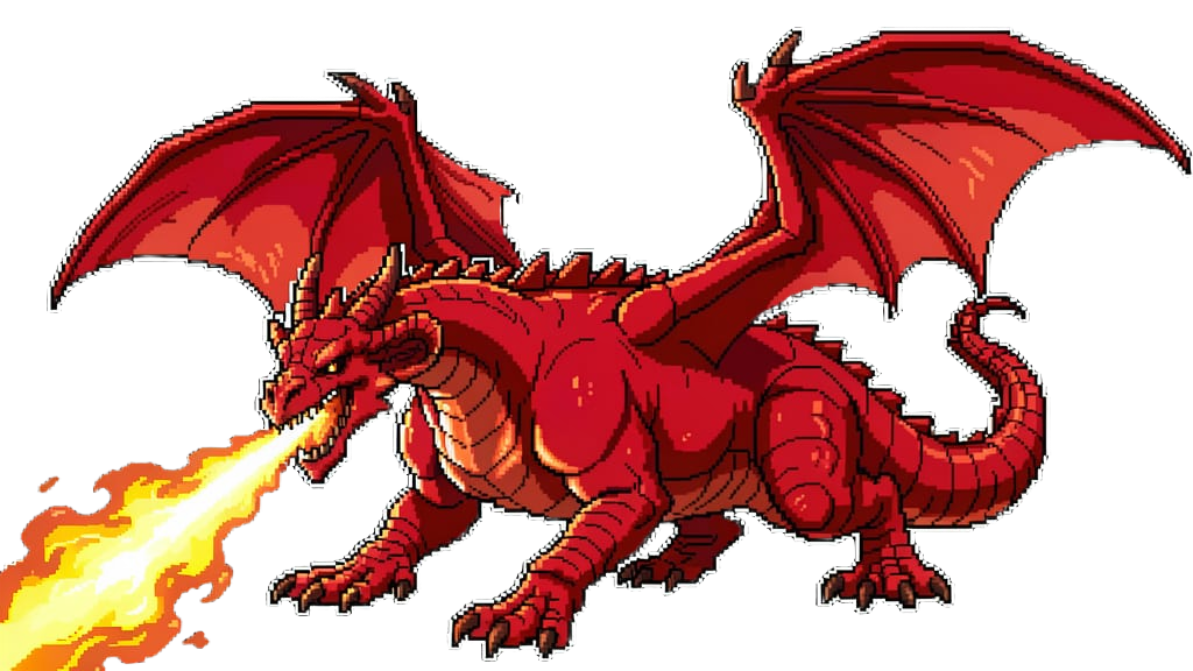
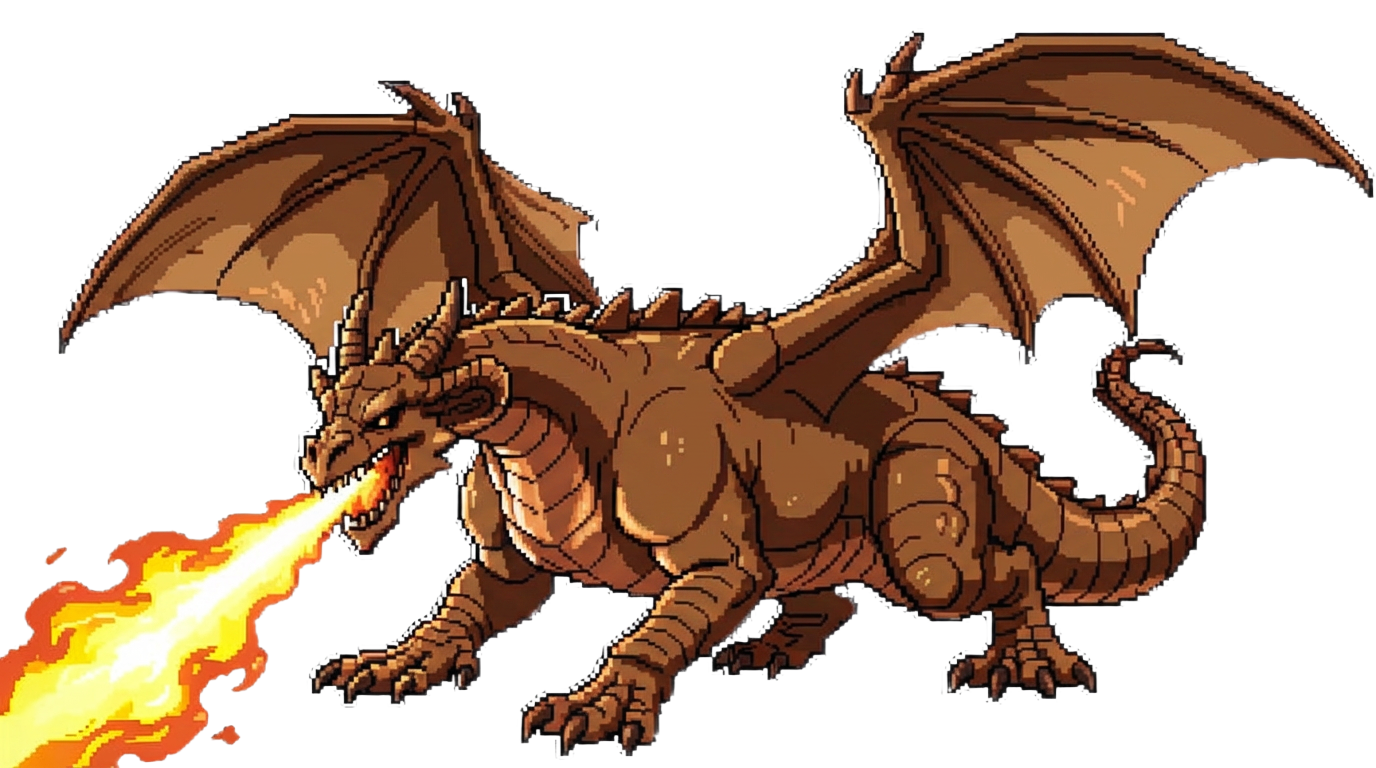
Add two-step stage 2 intro transition with new artwork.
Update stage 1 clear flow to show black1 then black2 transition screens before stage 2 character select, and include refreshed game assets under the game folder.

Made-with: Cursor

diff --git a/game/index.html b/game/index.html
@@ -204,7 +204,8 @@
         stage2Win: 'stages/gamewin_2.jpg',
         stage1Lose: 'stages/gameover_1.jpg',
         stage2Lose: 'stages/gameover_2.png',
-        stage2Intro: 'stages/star_black.jpeg',
+        stage2Intro1: 'stages/black1.jpeg',
+        stage2Intro2: 'stages/black2.jpg',
         happyEnding: 'stages/happyending.jpeg',
       };
       const stageImages = new Map();
@@ -605,12 +606,27 @@
         panel.innerHTML = `<div class="title" style="font-size:30px; text-shadow:0 10px 40px rgba(0,0,0,0.55)">Mr. Star Gone Dark</div>
           <div class="sub">A shadow rises before Stage 2.</div>
           <div class="row" style="margin-top:14px; justify-content:center">
-            <img alt="" src="${STAGE_IMAGES.stage2Intro}" style="max-width:min(760px,100%); max-height:360px; width:100%; object-fit:contain; border-radius:12px; border:1px solid rgba(255,255,255,0.18)" />
+            <img alt="" src="${STAGE_IMAGES.stage2Intro1}" style="max-width:min(760px,100%); max-height:360px; width:100%; object-fit:contain; border-radius:12px; border:1px solid rgba(255,255,255,0.18)" />
           </div>
           <div class="row" style="margin-top:16px; justify-content:center">
-            <button class="btn" id="stage2NextBtn">Next</button>
+            <button class="btn" id="stage2IntroNext1Btn">Next</button>
           </div>`;
-        panel.querySelector('#stage2NextBtn').addEventListener('click', ()=>showOverlayStage2Select());
+        panel.querySelector('#stage2IntroNext1Btn').addEventListener('click', ()=>showStage2IntroScreenStep2());
+      }
+      function showStage2IntroScreenStep2(){
+        overlay.classList.remove('hidden');
+        game.state='result';
+        syncBgm();
+        overlay.onclick = null;
+        panel.innerHTML = `<div class="title" style="font-size:30px; text-shadow:0 10px 40px rgba(0,0,0,0.55)">Mr. Star Gone Dark</div>
+          <div class="sub">The final battle is about to begin.</div>
+          <div class="row" style="margin-top:14px; justify-content:center">
+            <img alt="" src="${STAGE_IMAGES.stage2Intro2}" style="max-width:min(760px,100%); max-height:360px; width:100%; object-fit:contain; border-radius:12px; border:1px solid rgba(255,255,255,0.18)" />
+          </div>
+          <div class="row" style="margin-top:16px; justify-content:center">
+            <button class="btn" id="stage2IntroNext2Btn">Next</button>
+          </div>`;
+        panel.querySelector('#stage2IntroNext2Btn').addEventListener('click', ()=>showOverlayStage2Select());
       }
       function showFirstStageLose(){
         playResultSfx('lose');
